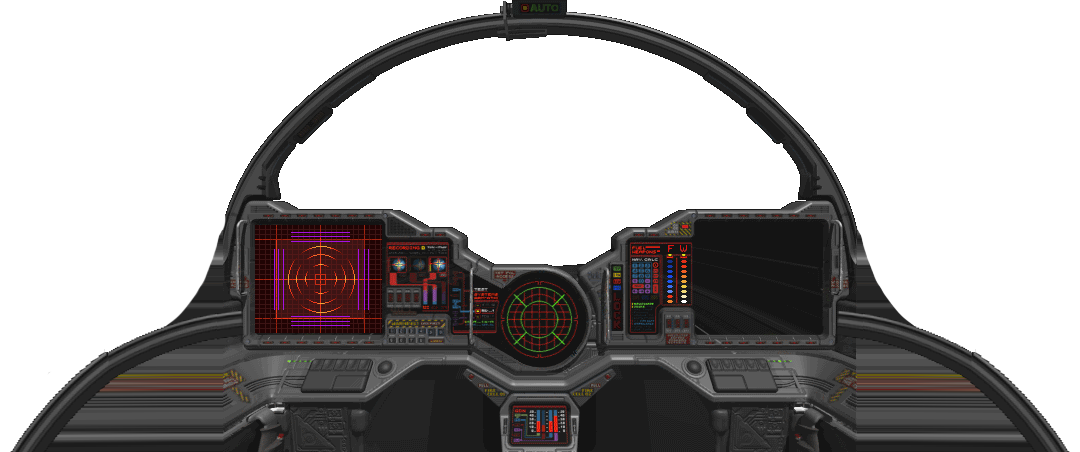
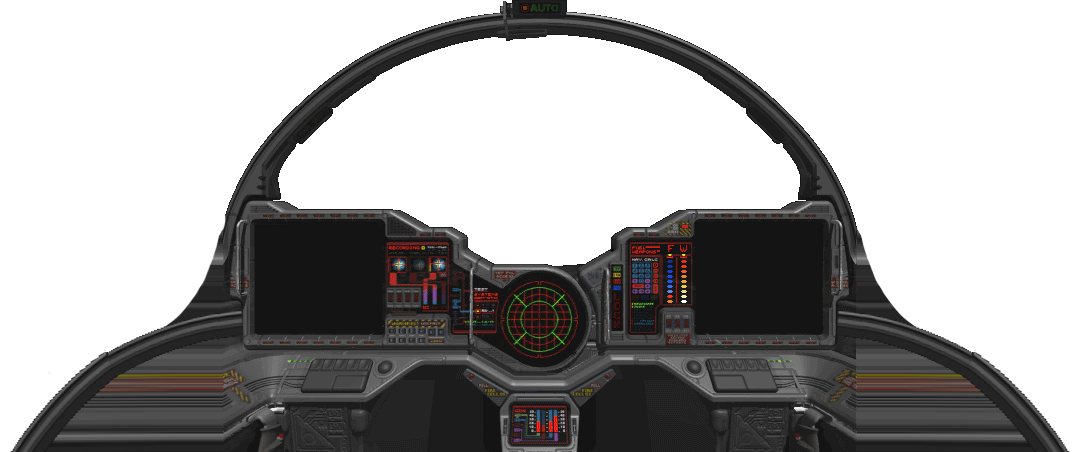
make ui work with cockpit

Changed region(s): [[0.2444, 0.4956, 0.3667, 0.7434]]

diff --git a/src/ui/NavTargetUI.js b/src/ui/NavTargetUI.js
@@ -9,12 +9,14 @@ export class NavTargetUI {
     // Nav target panel (initially hidden)
     this.navTargetPanel = document.createElement('div');
     this.navTargetPanel.style.position = 'absolute';
-    this.navTargetPanel.style.bottom = '140px'; // Above the TARGET panel
-    this.navTargetPanel.style.right = '20px';
-    this.navTargetPanel.style.background = 'rgba(0, 0, 0, 0.7)';
-    this.navTargetPanel.style.padding = '10px';
-    this.navTargetPanel.style.border = '1px solid #00ff00';
-    this.navTargetPanel.style.fontSize = '12px';
+    this.navTargetPanel.style.bottom = '19%';
+    this.navTargetPanel.style.left = '18%';
+    this.navTargetPanel.style.height = '17%';
+    this.navTargetPanel.style.width = '13.5%';
+    //this.navTargetPanel.style.background = 'rgba(0, 0, 0, 0.7)';
+    this.navTargetPanel.style.padding = '15px';
+    //this.navTargetPanel.style.border = '1px solid #00ff00';
+    this.navTargetPanel.style.fontSize = '16px';
     this.navTargetPanel.style.lineHeight = '1.4';
     this.navTargetPanel.style.display = 'none'; // Initially hidden
     this.container.appendChild(this.navTargetPanel);
@@ -40,7 +42,7 @@ export class NavTargetUI {
     // Nav target commable indicator
     this.navCommableIndicator = document.createElement('div');
     this.navCommableIndicator.style.position = 'absolute';
-    this.navCommableIndicator.style.left = '-50px';
+    this.navCommableIndicator.style.left = '80%';
     this.navCommableIndicator.style.top = '10px';
     this.navCommableIndicator.style.fontSize = '16px';
     this.navCommableIndicator.style.display = 'none';

diff --git a/src/ui/TargetUI.js b/src/ui/TargetUI.js
@@ -24,14 +24,17 @@ export class TargetUI {
     // Target panel (initially hidden)
     this.targetPanel = document.createElement('div');
     this.targetPanel.style.position = 'absolute';
-    this.targetPanel.style.bottom = '20px';
-    this.targetPanel.style.right = '20px';
-    this.targetPanel.style.background = 'rgba(0, 0, 0, 0.7)';
-    this.targetPanel.style.padding = '10px';
-    this.targetPanel.style.border = '1px solid #00ff00';
-    this.targetPanel.style.fontSize = '12px';
+    this.targetPanel.style.bottom = '19%';
+    this.targetPanel.style.right = '19%';
+    this.targetPanel.style.height = '17%';
+    this.targetPanel.style.width = '12.5%';
+    //this.targetPanel.style.background = 'rgba(0, 0, 0, 0.7)';
+    this.targetPanel.style.padding = '15px';
+    //this.targetPanel.style.border = '1px solid #00ff00';
+    this.targetPanel.style.fontSize = '16px';
     this.targetPanel.style.lineHeight = '1.4';
     this.targetPanel.style.display = 'none'; // Initially hidden
+    
     this.container.appendChild(this.targetPanel);
 
     this.targetTitle = document.createElement('div');
@@ -55,7 +58,7 @@ export class TargetUI {
     // Target commable indicator
     this.targetCommableIndicator = document.createElement('div');
     this.targetCommableIndicator.style.position = 'absolute';
-    this.targetCommableIndicator.style.left = '-50px';
+    this.targetCommableIndicator.style.left = '80%';
     this.targetCommableIndicator.style.top = '10px';
     this.targetCommableIndicator.style.fontSize = '16px';
     this.targetCommableIndicator.style.display = 'none';
